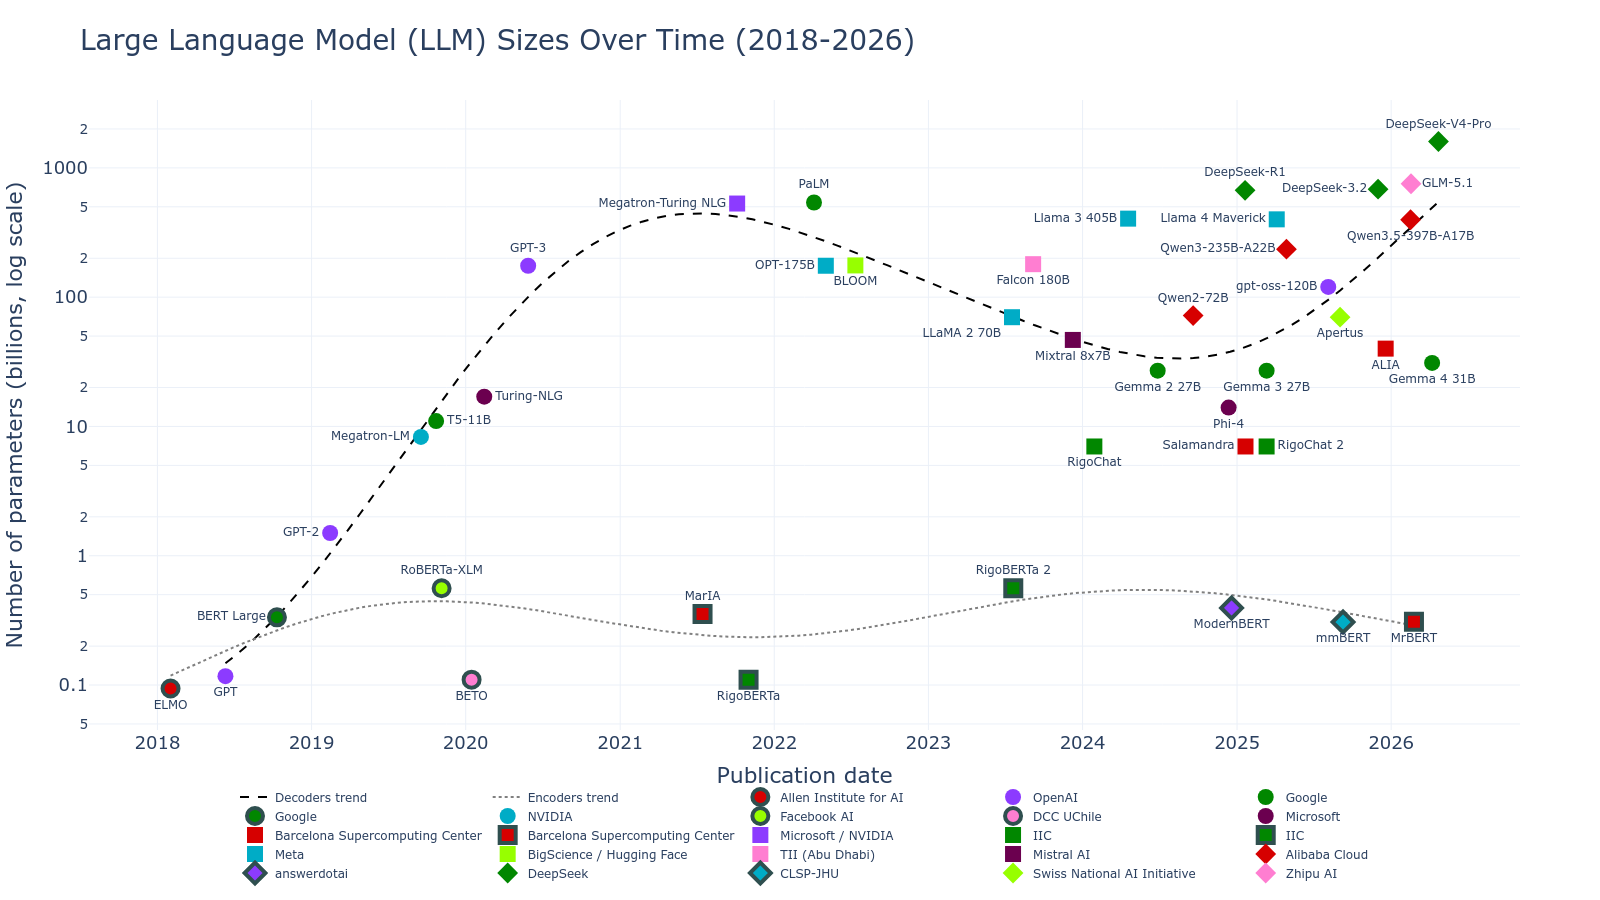
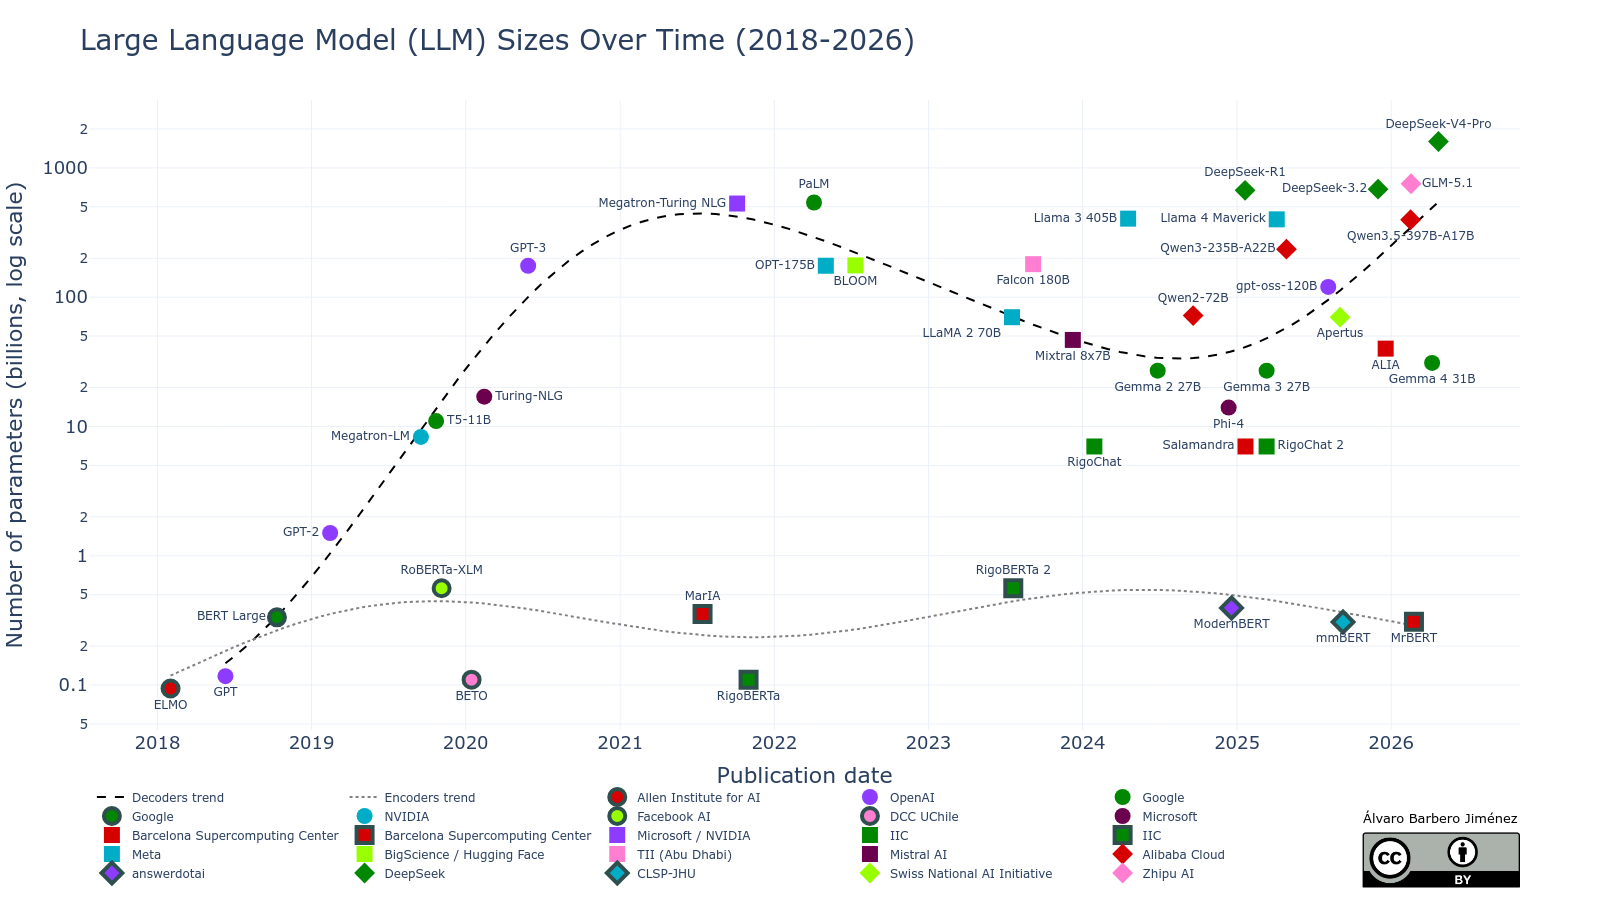
feat(plt): added CC-BY attribution info

Changed region(s): [[0.0625, 0.8711, 0.75, 0.9956], [0.7812, 0.8711, 0.9688, 0.9956]]

diff --git a/plot.py b/plot.py
@@ -1,5 +1,6 @@
 import colorcet as cc
 import pandas as pd
+from PIL import Image
 import plotly.graph_objects as go
 
 from trend import compute_trend
@@ -117,10 +118,37 @@ fig.update_layout(
     xaxis_title={"text": "Publication date", "font": dict(size=22)},
     yaxis_title={"text": "Number of parameters (billions, log scale)", "font": dict(size=22)},
     template="plotly_white",
-    legend=dict(orientation="h", yanchor="bottom", y=-0.25, xanchor="center", x=0.5),
+    legend=dict(orientation="h", yanchor="bottom", y=-0.25, xanchor="center", x=0.4),
     yaxis_type="log",
     xaxis=dict(tickfont=dict(size=18)),
-    yaxis=dict(tickfont=dict(size=18))
+    yaxis=dict(tickfont=dict(size=18)),
+)
+
+fig.add_layout_image(
+    dict(
+        source=Image.open("assets/cc-by-4.0.png"),
+        x=1,
+        y=-0.25,
+        xanchor="right",
+        yanchor="bottom",
+        sizex=0.11,
+        sizey=0.11,
+        sizing="contain",
+        layer="above"
+    )
+)
+
+fig.add_annotation(
+    xref="paper",
+    yref="paper",
+    x=1,
+    y=-0.155,
+    xanchor="right",
+    yanchor="bottom",
+    text="Álvaro Barbero Jiménez",
+    showarrow=False,
+    font=dict(size=13, color="black"),
+    align="right"
 )
 
 fig.write_image("llm_sizes_chart.png", width=1600, height=900)

diff --git a/README.md b/README.md
@@ -4,5 +4,5 @@
 
 A small repo with data about some relevant LLMs and a script to generate a plot of publication date VS number of parameters.
 
-**Usage**: you are free to use this plot in your presentations, as long as you cite this repo and its author:
+**Usage**: you are free to use this plot in your presentations, as long as you cite this repo and its author under the [CC-BY-4.0 license](https://creativecommons.org/licenses/by/4.0/).
 > Large Language Model sizes over time: Álvaro Barbero Jiménez, https://github.com/albarji/llm-sizes-chart
